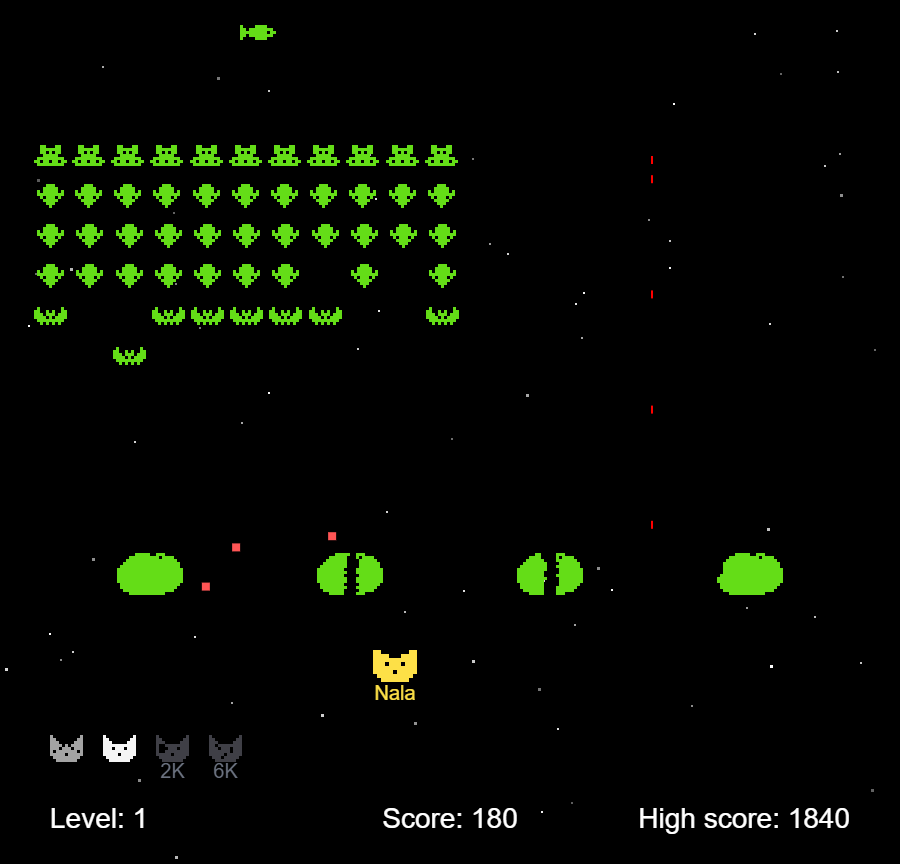
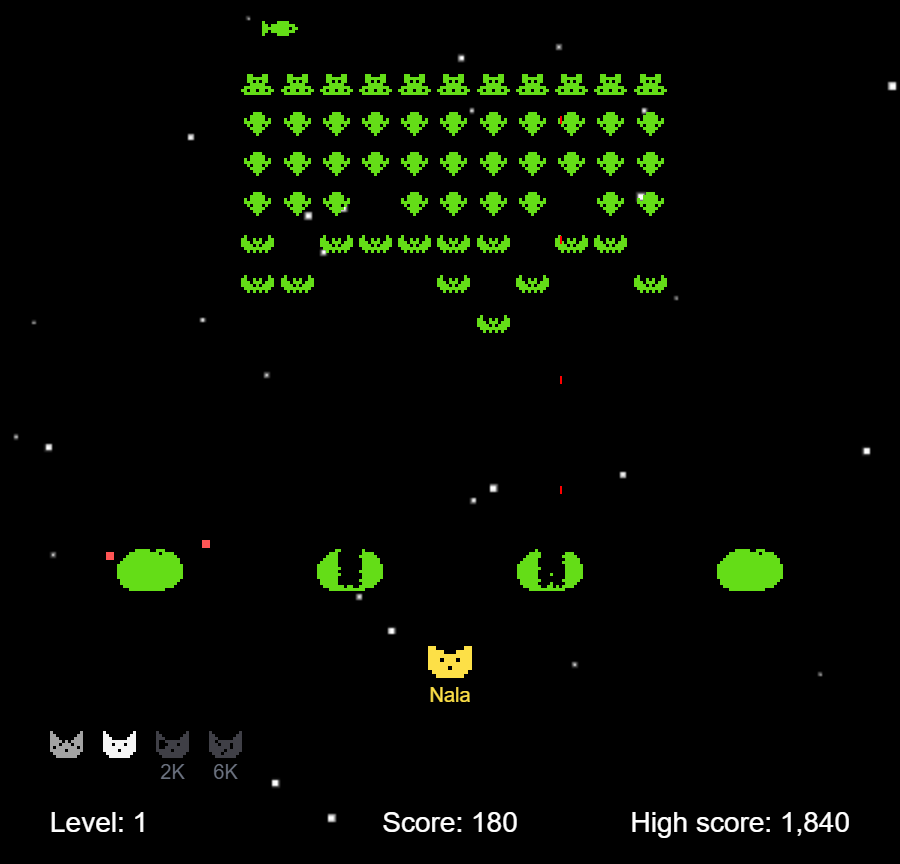
Bring the READMEs and pictures up to date
Both READMEs now cover today's challenge, players, the three-way switch
and the home page's live board card. New pictures of the board card on
the home page and of today's challenge's start screen, and the gameplay
screenshot, cabinet picture, cabinets slide and leaderboard picture are
redrawn from the current game, with commas in the scores.

diff --git a/games/space-cats/README.md b/games/space-cats/README.md
@@ -15,7 +15,7 @@
 
 <a href="https://azadmotala.github.io/arcadia/games/space-cats/"><img src="../../docs/screenshot.png" alt="Space Cats in play: rows of green mice in saucers, rat knights and bats over a starfield, a green fish swimming across the top, four green moon rocks, two of them chipped, and Nala the yellow cat firing up from below, with Storm and Everest waiting their turn and two grey bonus cats marked 2K and 6K" width="480"></a>
 
-[How to play](#how-to-play) · [Family leaderboard](#family-leaderboard) · [Run it locally](#run-it-locally) · [Tweak it](#tweak-it) · [Credits](#credits) · [License](#license)
+[How to play](#how-to-play) · [Family leaderboard](#family-leaderboard) · [Today's challenge](#todays-challenge) · [Run it locally](#run-it-locally) · [Tweak it](#tweak-it) · [Credits](#credits) · [License](#license)
 
 </div>
 
@@ -31,6 +31,8 @@ Four moon rocks stand between you and the fleet. Bombs blast holes in them from 
 
 Everything in the fleet is green. Switch on random colours and every wave turns up in a different colour from the last.
 
+Every day there's also [today's challenge](#todays-challenge): three waves, the same for everyone, played as the day's cat with that cat's twist, like Kaida's fish frenzy or Nala's rapid fire.
+
 ## How to play
 
 Space Cats is the first game on **[Arcadia](https://azadmotala.github.io/arcadia/)**: pick it from the cabinets on the home page, or go straight to **[the game](https://azadmotala.github.io/arcadia/games/space-cats/)**. Nothing to install. On a phone or tablet, the game fills the screen and you steer with your thumb.
@@ -41,6 +43,7 @@ To keep it on your home screen, open the game and tap Share → **Add to Home Sc
 |---|---|---|
 | Pick your cat | <kbd>←</kbd> <kbd>→</kbd>, or click a cat | Tap a cat |
 | Start | <kbd>Space</kbd> | Tap anywhere else |
+| Today's challenge | Click **Today** on the board's switch, then <kbd>Space</kbd> | Tap **Today**, then tap anywhere |
 | Move | <kbd>←</kbd> <kbd>→</kbd> | Drag anywhere on the screen. Your cat follows your finger and stops when you let go |
 | Fire | <kbd>Space</kbd> (hold it down to keep firing) | Keep your finger down |
 | Pause | <kbd>P</kbd> or the **Pause** button | **Pause** button, or switch to another app |
@@ -68,9 +71,9 @@ The start screen shows which version you're playing. If you think you're on an o
 
 The game can keep a top 10 shared by a family or group of friends, on any device, with each player on it once, with their best. It starts again every Monday at midnight (South African time), and last week's winner gets a crown. Make a board on the [Arcadia home page](https://azadmotala.github.io/arcadia/#boards) and send its link to everyone who should be on it. Each device remembers the board after opening the link once, and every Arcadia game uses it. Only people who know the link can see the board or add to it.
 
-The board's name heads it on the start screen and when a game ends. A board made as "Friday night crew" shows **Friday night crew**; one made without a name shows **Leaderboard**. Under the name, a two-way switch, **This week** and **All time**, changes which top 10 it shows; tap or click either side. On a computer, the pointer turns into a hand over anything on the screen you can click, the cats and the switch. Below this week's scores is who won last week, and if they're on the board again this week, their crown sits beside them.
+The board's name heads it on the start screen and when a game ends. A board made as "Friday night crew" shows **Friday night crew**; one made without a name shows **Leaderboard**. Under the name, a switch, **Today**, **This week** and **All time**, changes which top 10 it shows; tap or click one. **Today** is [today's challenge](#todays-challenge), and picking it sets the challenge up to play. On a computer, the pointer turns into a hand over anything on the screen you can click, the cats and the switch. Below this week's scores is who won last week, and if they're on the board again this week, their crown sits beside them.
 
-<img src="../../docs/leaderboard.png" alt="The start screen with the five cats to pick from, Nala picked, and the Friday night crew board underneath: This week and All time, this week's top 10 of players' names and best scores, and a crown for last week's winner" width="360">
+<img src="../../docs/leaderboard.png" alt="The start screen with the five cats to pick from, Nala picked, and the Friday night crew board underneath: the Today, This week and All time switch, this week's top 10 of players' names and best scores, and a crown for last week's winner" width="360">
 
 - When a score is good enough for this week's top 10, the game asks who played. Tap your name: the last player on that device is first, in gold. Someone new taps **New player** and types a first name or nickname, up to 10 letters. Anyone with the board's link can see the names. The board's players are shared by every game and device on it.
 - Each top 10 shows each player once, with their best, so a score that doesn't beat your best this week still counts as a game played but doesn't change the board.
@@ -79,6 +82,27 @@ The board's name heads it on the start screen and when a game ends. A board made
 - No connection? A score that makes the board waits on the device, shown in grey, and goes up when the board can be reached again. The game plays the same either way. If it can't get through within 3 days of the week ending, it's dropped.
 - When a game ends, **Share** sends how it went to the family chat, like "Friday night crew · Space Cats · 2nd this week with 3,870 (340 behind Dad)", with a link straight to the game on your board. Phones open their share sheet; on a computer it's copied, ready to paste. A score that isn't on this week's board is shared as just the points and the level.
 - Need the link again? Any device that's on the board shows it on the Family boards slide of the Arcadia home page, with a Copy button, and Share on devices that can share. [Arcadia's README](../../README.md#family-boards) has more on boards.
+
+### Today's challenge
+
+Every day there's a new challenge: three waves, the same for everyone, played as the day's cat with that cat's twist. Pick **Today** on the board's switch (or **Today's challenge** without a board) and start.
+
+<img src="../../docs/daily.png" alt="The start screen on today's challenge: Kaida picked and the other cats dimmed, Today: Kaida's fish frenzy. Three waves. A fish every few seconds. Press Space to start, and the Friday night crew's Today board with Zoe, Dad, Gran, Mum and Leo, and A new challenge at midnight" width="360">
+
+| Cat | Twist |
+|---|---|
+| Storm | Stormy skies: bombs fall twice as fast |
+| Everest | Mountain day: six bigger moon rocks |
+| Kaida | Fish frenzy: a fish every few seconds |
+| Nala | Rapid fire: shoot twice as fast |
+| Aster | Starry fleet: a bigger fleet, double points |
+
+- The cats take turns, one a day, so each comes round every five days. A new challenge starts at midnight, South African time.
+- The bombs, the fish (when they come, which side, what they're worth) and the holes blasted in the moon rocks follow a pattern set by the date, so everyone faces the same run that day.
+- Clear all three waves and each cat you still have is worth 500. Run out of cats and the challenge ends where you got to.
+- Play as often as you like: the **Today** board shows each player's best of the day. Today's challenge doesn't count towards This week or All time, or the device's high score. During play and at the end it shows your best today.
+- Sharing after the challenge says where you came today, and its link opens straight on today's challenge.
+- The twists are in `DAILY_TWISTS` in `js/spacecats.js`, in the same order as the cats.
 
 ### It gets harder
 
@@ -141,7 +165,7 @@ games/space-cats/
 ├── index.html            Page, canvas, input handling and touch-screen layout
 ├── js/
 │   ├── spacecats.js      Game loop, cats, fleet, fish, moon rocks, scoring and sound
-│   ├── leaderboard.js    Weekly family leaderboard in Firebase, with a queue for offline play
+│   ├── leaderboard.js    Family boards in Firebase: players and today's, this week's and all-time top 10s, with a queue for offline play
 │   └── starfield.js      Scrolling star background
 ├── css/                  Page styles
 └── icons/                Browser tab and home-screen icons, and the web app manifest
@@ -149,7 +173,7 @@ games/space-cats/
 
 ## Credits
 
-Space Cats is based on [spaceinvaders](https://github.com/dwmkerr/spaceinvaders) by Dave Kerr, which supplies the game engine, the starfield and the core gameplay. This version adds the cats and picking which one you play as, bonus cats that join as you score, a fleet of mice, rat knights and bats drawn in code with their marching poses and points, the fish, the moon rocks, sounds made in code, the speed-up, a saved high score, a family leaderboard, an option to give every wave a new colour, Pause, Mute and Share buttons, and touch controls for phones and tablets.
+Space Cats is based on [spaceinvaders](https://github.com/dwmkerr/spaceinvaders) by Dave Kerr, which supplies the game engine, the starfield and the core gameplay. This version adds the cats and picking which one you play as, bonus cats that join as you score, a fleet of mice, rat knights and bats drawn in code with their marching poses and points, the fish, the moon rocks, sounds made in code, the speed-up, a saved high score, family leaderboards with players and weekly and daily top 10s, today's challenge, an option to give every wave a new colour, Pause, Mute and Share buttons, and touch controls for phones and tablets.
 
 The cats are named after ours.
 

diff --git a/README.md b/README.md
@@ -24,7 +24,7 @@ The home page works like a slide show: three full screens, and each scroll or sw
 
 1. **The arcade at night.** A neon grid floor rolls towards you under wireframe mountains, and the Arcadia sign glows in the sky with light fanning out behind it. Space Cats' fleet floats in an arc under the sign, built in coloured blocks from the game's own pixel art. A cat flies in from the front and picks them off, and every few hits it spins round and the next of the five cats takes over. On a computer, the view leans as you move the mouse.
 2. **The cabinets.** Each game has a cabinet. Space Cats is open, and two locked cabinets hint at what's coming: a climbing game and a maze game. On a computer the cabinets lean towards the pointer.
-3. **Family boards.** Make a board, or copy and share the one you're on.
+3. **Family boards.** The board this device is on, live: today's challenge, this week's top players and last week's champion, with its link to send to the family. Or make a new board.
 
 The header stays at the top on every slide. It's see-through over the scene and darkens once you scroll, and the link for the slide you're on lights up pink. Dots down the right-hand side show where you are, and take you to any slide.
 
@@ -40,7 +40,7 @@ It's built to work for everyone:
 
 | Game | |
 |---|---|
-| [**Space Cats**](https://azadmotala.github.io/arcadia/games/space-cats/) | Mice in flying saucers, rat knights and bats march down on five cats. Pick your cat, shelter behind the moon rocks, and earn the last two cats by scoring points. [How to play](games/space-cats/README.md) |
+| [**Space Cats**](https://azadmotala.github.io/arcadia/games/space-cats/) | Mice in flying saucers, rat knights and bats march down on five cats. Pick your cat, shelter behind the moon rocks, and earn the last two cats by scoring points. Every day there's a new three-wave challenge too, played as the day's cat with its own twist. [How to play](games/space-cats/README.md) |
 
 More games are on the way. Each one lives in its own folder under `games/`.
 
@@ -58,9 +58,13 @@ When a score makes the board, the game asks who played. Each board has its own p
 
 Every board starts again at midnight on Monday, South African time. Each game shows this week's top 10 with a crown for last week's winner, and the all-time top 10 is a tap away. When a game ends, Share sends the result to the family chat, with a link back to the board.
 
+Space Cats also has a new challenge every day, the same three waves for everyone, played as the day's cat with its twist, with its own **Today** top 10 ([Space Cats' README](games/space-cats/README.md#todays-challenge) has the details).
+
 A board's name comes from its code, so `friday-night-crew-7e3xkq` shows as **Friday night crew**: in the invite when someone opens the link, on the home page, and above the Space Cats top 10s. A board made without a name shows its code instead.
 
-On a device that's on a board, the Family boards slide shows the board as a live card: its name, which week of its championship this is (week 1 is the week of its first score), last week's champion with a crown, and this week's top players, with a Play button. Phones show the top 3, so the slide fits one screen; taller phones and computers show the top 5.
+On a device that's on a board, the Family boards slide shows the board as a live card: its name, today's challenge (a link that opens it), which week of its championship this is (week 1 is the week of its first score), this week's top players, and last week's champion with a crown, with a Play button. Phones show the top 3, so the slide fits one screen; taller phones and computers show the top 5.
+
+<img src="docs/home-boards.png" alt="The Family boards slide on a computer: the Friday night crew card, with Space Cats, a link to today's challenge, Kaida's fish frenzy, and a Play button, then week 4's top five, Dad, Zoe with a crown, Gran, Mum and Leo, and Zoe won last week with 9,120. Beside it, Invite your family, with the board's link and Copy link and Share buttons" width="720">
 
 Any device that's on a board can send the link again: beside the card (below it on phones) is the link, a Copy button, and a Share button on devices that can share. Making a different board is tucked behind a button underneath.
 
@@ -91,16 +95,16 @@ arcadia/
 ├── index.html              The home page: the scene, the cabinets and the family boards
 ├── assets/
 │   ├── arcadia.css         The neon look, the slides, the header and the cabinets
-│   ├── arcadia.js          Family boards, links between slides, the dots and the header
+│   ├── arcadia.js          Family boards and their live card, links between slides, the dots and the header
 │   ├── scene.js            The 3D scene, drawn with three.js
 │   ├── favicon.svg         The pixel A icon, with PNG versions beside it
 │   ├── manifest.webmanifest  Name and icons for adding Arcadia to a home screen
-│   └── space-cats.png      The picture on the Space Cats cabinet
+│   └── space-cats.png      The picture on the Space Cats cabinet and the board card
 ├── games/
 │   └── space-cats/         Space Cats, with its own README
 ├── docs/                   Pictures for the READMEs
-├── firestore.rules         Who can read and add leaderboard scores
-├── firestore.indexes.json  The index the weekly top 10 needs
+├── firestore.rules         Who can read and add players and scores
+├── firestore.indexes.json  The index for the weekly top 10 of initials scores
 ├── firebase.json           Tells the Firebase CLI where the rules and index are
 └── .firebaserc             Arcadia's Firebase project
 ```
@@ -108,10 +112,10 @@ arcadia/
 ## How the home page works
 
 - **The scene.** `assets/scene.js` loads [three.js](https://threejs.org) 0.160.0 from unpkg, through the import map in `index.html`, and adds a glow on top. Its creatures and cats come from Space Cats' own script, `games/space-cats/js/spacecats.js`, which the page loads first. Change a cat there and the home page follows.
-- **The board card.** The home page also loads Space Cats' `js/leaderboard.js`, the same code the game uses, so the card shows exactly what the game's board does, including scores from this device still waiting to go up. It shows the board as last seen straight away, then fetches the latest, and again when someone comes back to the page.
+- **The board card.** The home page also loads Space Cats' `js/leaderboard.js`, the same code the game uses, so the card shows exactly what the game's board does, including scores from this device still waiting to go up. It shows the board as last seen straight away, then fetches the latest, and again when someone comes back to the page. Today's challenge comes from `spacecats.js`, which the page already loads, so the card and the game always agree on the day's cat.
 - **The fonts.** Headings and the sign use [Tilt Neon](https://fonts.google.com/specimen/Tilt+Neon), and the rest uses [Chakra Petch](https://fonts.google.com/specimen/Chakra+Petch), both from Google Fonts.
 - **The slides.** They snap with CSS scroll snapping. Safari on iPhone can pull the page straight back when a link jumps across snapping slides, so `assets/arcadia.js` handles links to the page's own slides itself. It switches snapping off for the jump, glides there, and switches it back on once it arrives, finishing the jump itself if the glide stalls.
-- **What a device remembers.** The board code is kept in the browser as `arcadia.board`, shared by the home page and every game. Each game keeps its own things, such as Space Cats' high score, under its own name, like `arcadia.space-cats.highScore`.
+- **What a device remembers.** The board code is kept in the browser as `arcadia.board`, shared by the home page and every game, along with the anonymous sign-in (`arcadia.auth`), the last player on each board (`arcadia.lastPlayer`) and new players waiting to go up (`arcadia.pendingPlayers`). Each game keeps its own things under its own name, like Space Cats' high score, `arcadia.space-cats.highScore`, its waiting scores and its best this week and today.
 - **Releasing a change.** Change the `?v=` on the links in `index.html` for any file you've changed, so browsers fetch the new version. The footer shows the page's version, read from the `?v=` on the `arcadia.js` link, so keep the three home page links on the same number. GitHub Pages also keeps pages for up to 10 minutes, so a reload may be needed to see a release.
 
 ## The leaderboards
@@ -123,6 +127,7 @@ A board's players are at `boards/{code}/players/{player}`, each with a name and 
 - `plays/{id}`: every game that made the board, with who played, their name, the score, when, and the week.
 - `bests/{player}`: each player's best ever. The all-time top 10 is the highest of these.
 - `weeks/{week}/bests/{player}`: each player's best that week. The week's top 10 is the highest of these, and last week's winner is the top one from the week before.
+- `days/{day}/bests/{player}`: each player's best in that day's challenge. Days are numbered from 1 January 1970 and start at midnight in South Africa. One played offline can go up for a day after its day ends.
 - `scores/{id}`: scores from before players, by three-letter initials. They still show, one row for each set of initials.
 
 The rules in [`firestore.rules`](firestore.rules) let anyone read a board they know the code of, and let a signed-in game add well-formed players and scores to it. Nothing can be deleted, and the only change allowed is a player's best going up.
